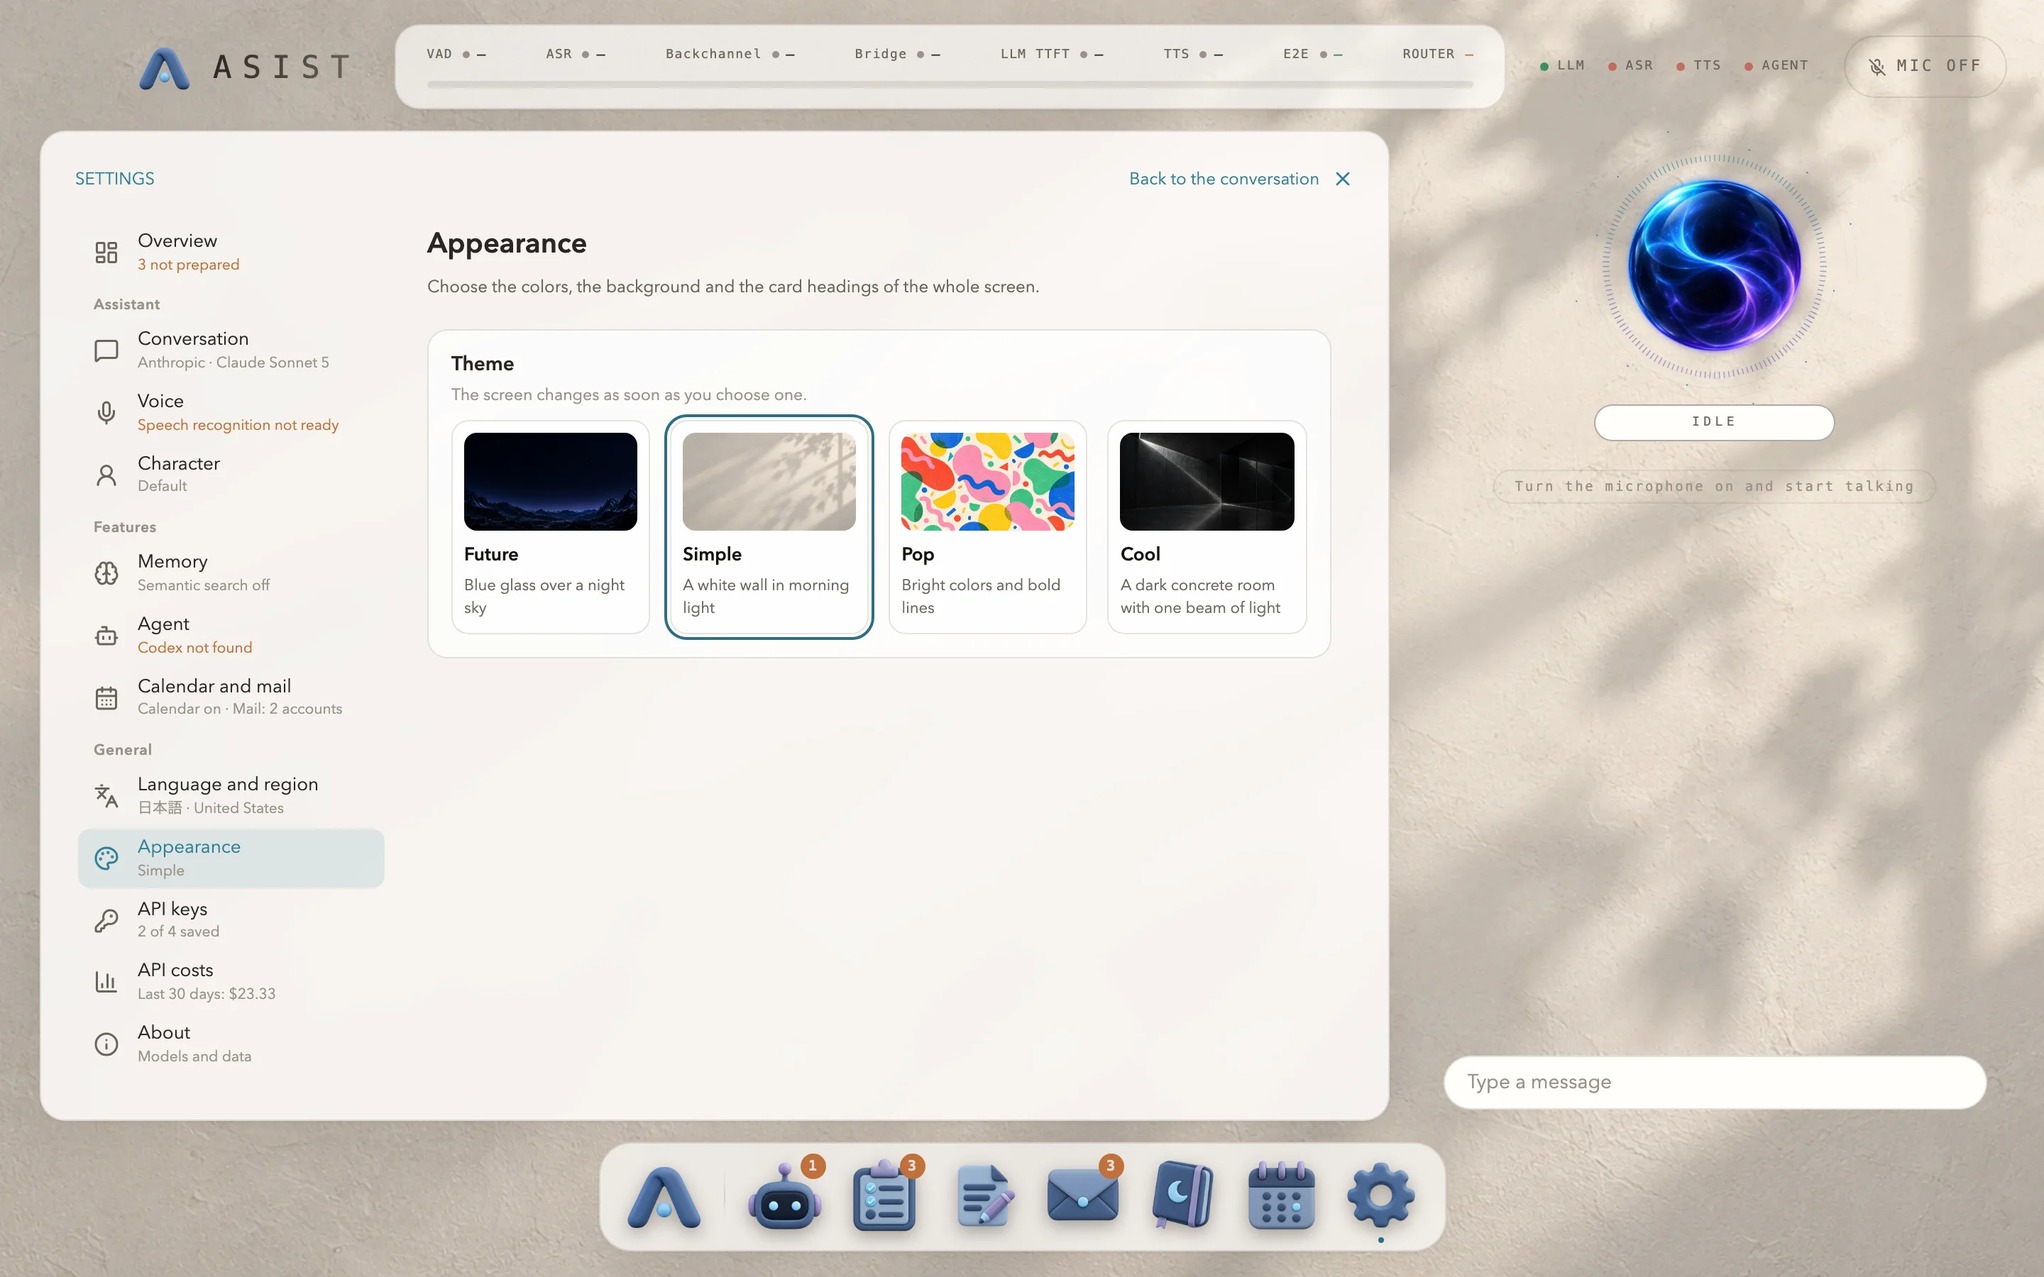
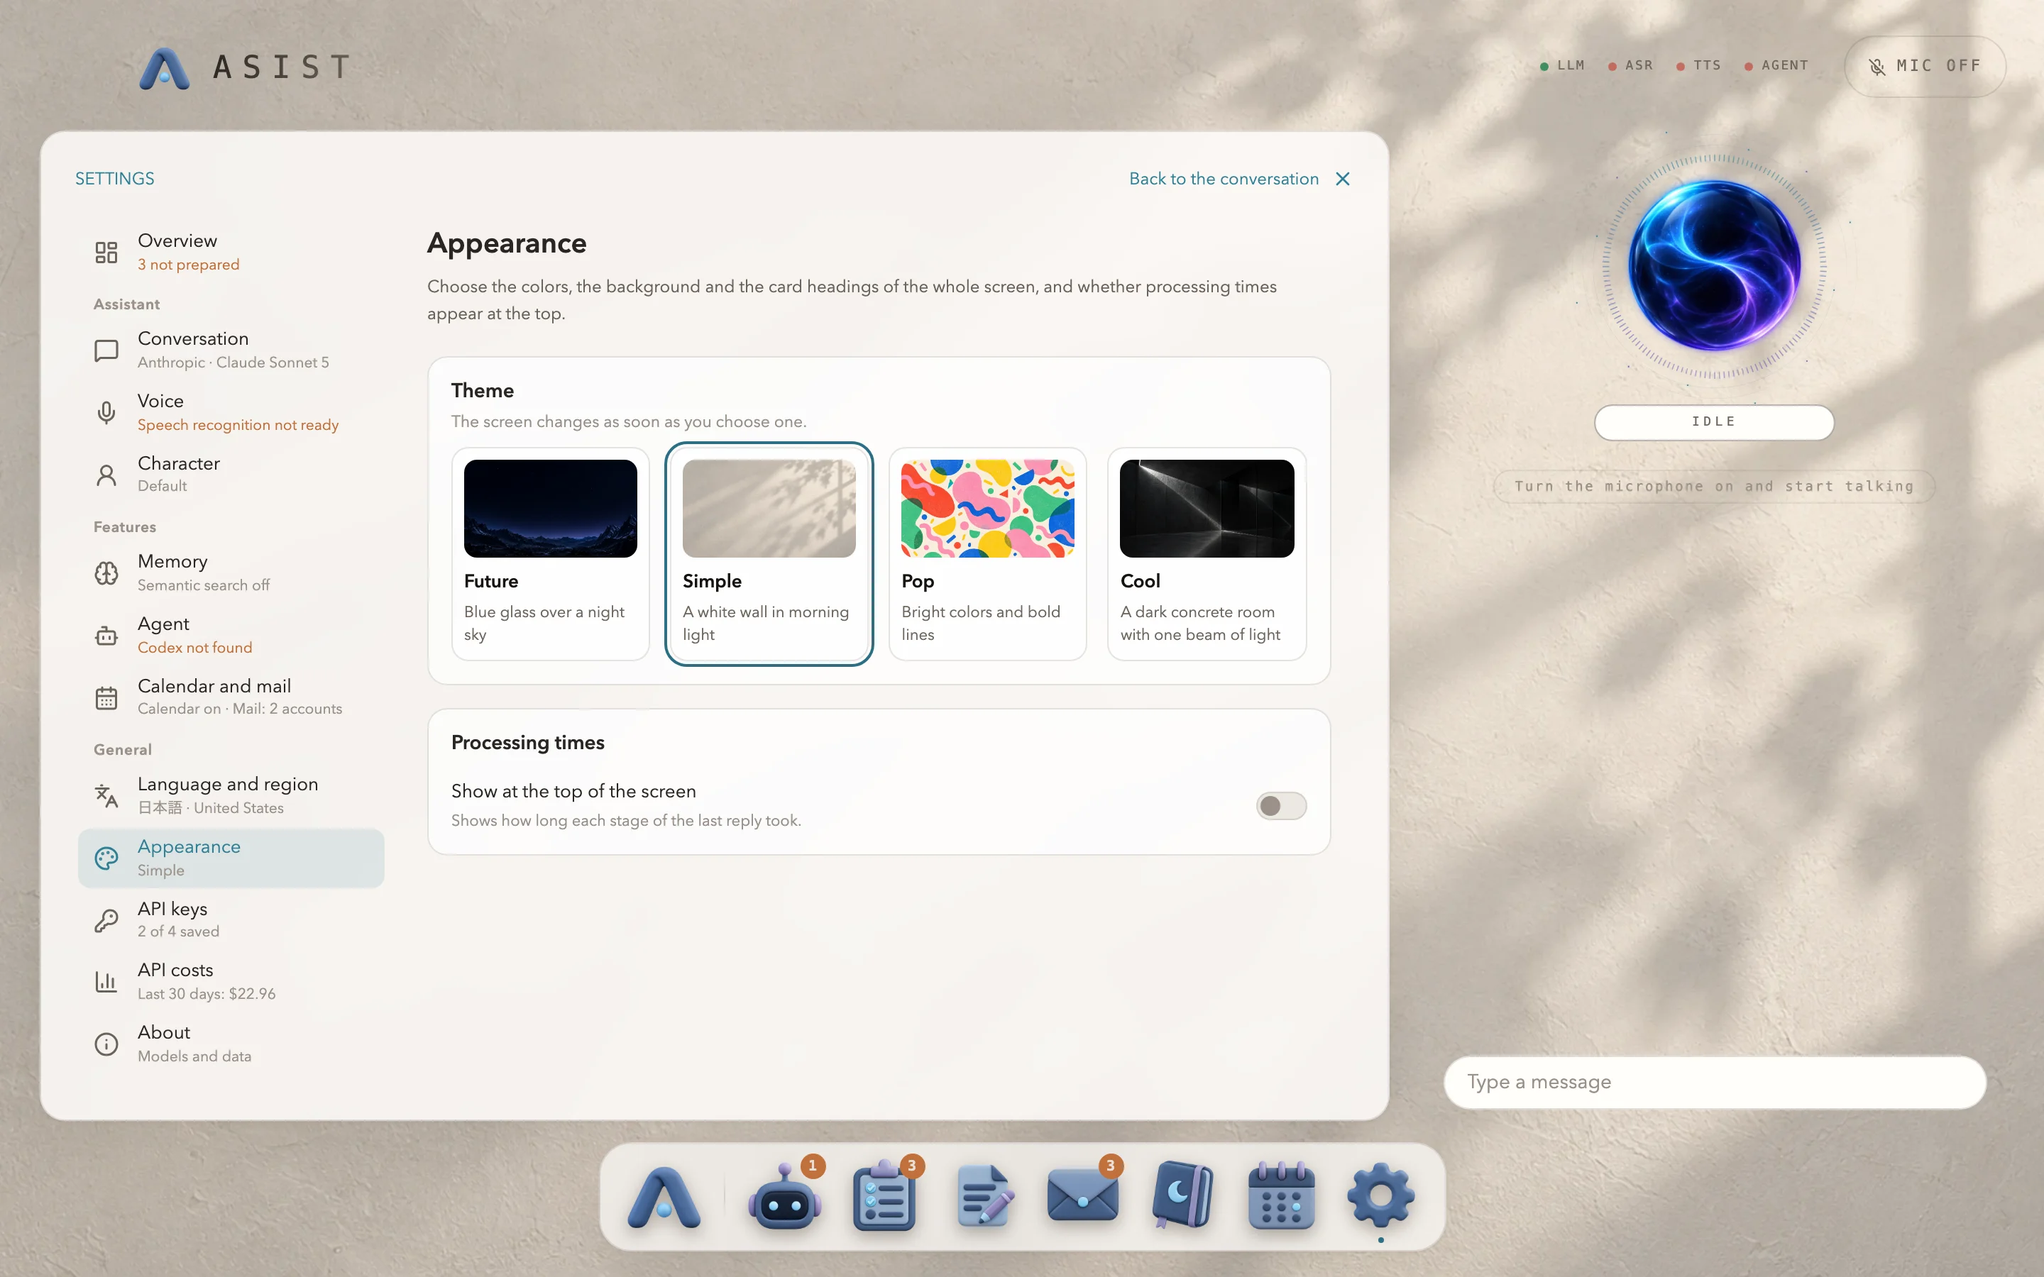
Hide the processing times at the top of the screen unless turned on under Appearance (#141)
The bar at the top that shows how long each stage of the last reply took (VAD, ASR, aizuchi, bridge, LLM TTFT, TTS, E2E and the router, or the connection, response, session and cost of a live engine) matters to someone tuning the conversation rather than to someone using it. It is now hidden unless "Show at the top of the screen" is turned on in the new "Processing times" group of the Appearance page.

The setting is stored as `showHud` in settings.json, which moves to version 7. The upgrade from version 6 hides the bar for everyone, including those who saw it until now, and a sample of version 7 joins `tests/fixtures/stored/`. When the bar is hidden its wrapper stays in the top bar, since it is what keeps the status dots and the microphone on the right.

The documentation of Appearance, the usage page and the voice engine page now say where the times are turned on, in Japanese and English, and the screenshots that show the top bar were taken again without it. The setup screenshots are clipped to the dialog and were left as they were.

## Checks

- `npm run typecheck`: no errors.
- `npm test`: 225 files and 2370 tests passed, 12 skipped. This includes opening `settings.v1.json` through `settings.v7.json` as version 7.
- `npm run i18n -- check`: every message has the eleven languages.
- `npm run demo:fit -- --screens`: everything fits in 44 combinations (4 themes × 11 languages, 38 screens).
[…]

diff --git a/src/shared/i18n/messages/settings-appearance.ts b/src/shared/i18n/messages/settings-appearance.ts
@@ -15,17 +15,17 @@ export const settingsAppearance = defineMessages({
     'es-ES': 'Apariencia'
   },
   lead: {
-    'ja-JP': '画面全体の色、背景、カードの見出しを選びます。',
-    'en-US': 'Choose the colors, the background and the card headings of the whole screen.',
-    'fr-FR': "Choisissez les couleurs, l'arrière-plan et les titres des cartes de tout l'écran.",
-    'de-DE': 'Wählen Sie Farben, Hintergrund und Kartenüberschriften für den ganzen Bildschirm.',
-    'hi-IN': 'पूरी स्क्रीन के रंग, बैकग्राउंड और कार्ड के शीर्षक चुनें।',
-    'id-ID': 'Pilih warna, latar belakang, dan judul kartu untuk seluruh layar.',
-    'it-IT': 'Scegli i colori, lo sfondo e i titoli delle schede di tutto lo schermo.',
-    'ko-KR': '화면 전체의 색, 배경, 카드 제목을 고릅니다.',
-    'pt-BR': 'Escolha as cores, o fundo e os títulos dos cartões de toda a tela.',
-    'es-419': 'Elige los colores, el fondo y los títulos de las tarjetas de toda la pantalla.',
-    'es-ES': 'Elige los colores, el fondo y los títulos de las tarjetas de toda la pantalla.'
+    'ja-JP': '画面全体の色、背景、カードの見出しと、上部に処理時間を出すかどうかを選びます。',
+    'en-US': 'Choose the colors, the background and the card headings of the whole screen, and whether processing times appear at the top.',
+    'fr-FR': "Choisissez les couleurs, l'arrière-plan et les titres des cartes de tout l'écran, et si les temps de traitement s'affichent en haut.",
+    'de-DE': 'Wählen Sie Farben, Hintergrund und Kartenüberschriften für den ganzen Bildschirm und ob oben die Verarbeitungszeiten erscheinen.',
+    'hi-IN': 'पूरी स्क्रीन के रंग, बैकग्राउंड और कार्ड के शीर्षक चुनें, और यह भी कि ऊपर प्रोसेसिंग का समय दिखे या नहीं।',
+    'id-ID': 'Pilih warna, latar belakang, dan judul kartu untuk seluruh layar, serta apakah waktu proses tampil di bagian atas.',
+    'it-IT': 'Scegli i colori, lo sfondo e i titoli delle schede di tutto lo schermo, e se in alto compaiono i tempi di elaborazione.',
+    'ko-KR': '화면 전체의 색, 배경, 카드 제목과, 위쪽에 처리 시간을 표시할지를 고릅니다.',
+    'pt-BR': 'Escolha as cores, o fundo e os títulos dos cartões de toda a tela, e se os tempos de processamento aparecem no topo.',
+    'es-419': 'Elige los colores, el fondo y los títulos de las tarjetas de toda la pantalla, y si arriba se muestran los tiempos de procesamiento.',
+    'es-ES': 'Elige los colores, el fondo y los títulos de las tarjetas de toda la pantalla, y si arriba se muestran los tiempos de procesamiento.'
   },
   theme: {
     title: {
@@ -167,6 +167,47 @@ export const settingsAppearance = defineMessages({
         'es-419': 'Una sala oscura de concreto con un rayo de luz',
         'es-ES': 'Una sala oscura de hormigón con un rayo de luz'
       }
+    }
+  },
+  hud: {
+    title: {
+      'ja-JP': '処理時間',
+      'en-US': 'Processing times',
+      'fr-FR': 'Temps de traitement',
+      'de-DE': 'Verarbeitungszeiten',
+      'hi-IN': 'प्रोसेसिंग का समय',
+      'id-ID': 'Waktu proses',
+      'it-IT': 'Tempi di elaborazione',
+      'ko-KR': '처리 시간',
+      'pt-BR': 'Tempos de processamento',
+      'es-419': 'Tiempos de procesamiento',
+      'es-ES': 'Tiempos de procesamiento'
+    },
+    show: {
+      'ja-JP': '画面の上に表示する',
+      'en-US': 'Show at the top of the screen',
+      'fr-FR': "Afficher en haut de l'écran",
+      'de-DE': 'Oben auf dem Bildschirm anzeigen',
+      'hi-IN': 'स्क्रीन के ऊपर दिखाएँ',
+      'id-ID': 'Tampilkan di bagian atas layar',
+      'it-IT': 'Mostra in cima allo schermo',
+      'ko-KR': '화면 위쪽에 표시하기',
+      'pt-BR': 'Mostrar no topo da tela',
+      'es-419': 'Mostrar en la parte superior de la pantalla',
+      'es-ES': 'Mostrar en la parte superior de la pantalla'
+    },
+    hint: {
+      'ja-JP': '直前の返事で、各段階にかかった時間を表示します。',
+      'en-US': 'Shows how long each stage of the last reply took.',
+      'fr-FR': 'Affiche la durée de chaque étape de la dernière réponse.',
+      'de-DE': 'Zeigt, wie lange jeder Schritt der letzten Antwort gedauert hat.',
+      'hi-IN': 'पिछले जवाब के हर चरण में लगा समय दिखाता है।',
+      'id-ID': 'Menampilkan waktu setiap tahap pada balasan terakhir.',
+      'it-IT': "Mostra quanto è durata ogni fase dell'ultima risposta.",
+      'ko-KR': '직전 답변의 단계별 소요 시간을 표시합니다.',
+      'pt-BR': 'Mostra quanto tempo levou cada etapa da última resposta.',
+      'es-419': 'Muestra cuánto tardó cada etapa de la última respuesta.',
+      'es-ES': 'Muestra cuánto ha tardado cada etapa de la última respuesta.'
     }
   }
 })

diff --git a/src/shared/settings.ts b/src/shared/settings.ts
@@ -38,6 +38,8 @@ const fields = {
   uiLocale: z.enum(UI_LOCALES),
   /** The look of the whole interface: its colours, surfaces, background picture and the type of card headings. */
   theme: z.enum(THEMES),
+  /** Whether the top of the screen shows how long each stage of the latest turn took. */
+  showHud: z.boolean(),
   /** The language the user and the assistant speak: prompts, speech recognition and speech follow it. */
   conversationLocale: z.enum(CONVERSATION_LOCALES),
   /** The ISO 3166-1 alpha-2 country whose weather, news, currency and formats apply. */
@@ -157,7 +159,7 @@ const V4_ASR_MODELS: Record<string, AsrModel> = {
 
 export const SETTINGS_FORMAT: StoredFormat<AppSettings> = {
   name: 'settings.json',
-  version: 6,
+  version: 7,
   upgrades: {
     // Version 2 adds the theme. Everything written before it was drawn in future.
     1: (content) => ({ ...(content as Record<string, unknown>), theme: 'future' }),
@@ -186,7 +188,11 @@ export const SETTINGS_FORMAT: StoredFormat<AppSettings> = {
     5: (content) => ({
       ...(content as Record<string, unknown>),
       calendar: { enabled: false, readCalendarIds: [], writeCalendarId: null }
-    })
+    }),
+    // Version 7 lets the times of a turn at the top of the screen be turned off. They matter to someone
+    // tuning the conversation rather than to someone using it, so they are hidden for everyone, including
+    // those who saw them until now.
+    6: (content) => ({ ...(content as Record<string, unknown>), showHud: false })
   },
   parse: parseAppSettings,
   serialize: (settings) => ({ ...settings })

diff --git a/src/renderer/src/ui/settings/pages/AppearancePage.tsx b/src/renderer/src/ui/settings/pages/AppearancePage.tsx
@@ -1,10 +1,11 @@
 import type { CSSProperties } from 'react'
 import { THEMES, type ThemeName } from '@shared/themes'
 import type { SettingsContext } from '../context'
-import { Group, Page } from '../primitives'
+import { Group, Page, Row } from '../primitives'
+import { HoloSwitch } from '@/components/ui/switch'
 import { useT } from '@/i18n'
 
-/** The appearance page: the theme of the whole interface, chosen from the pictures of the themes. */
+/** The appearance page: the theme of the whole interface, chosen from the pictures of the themes, and the processing times at the top. */
 export function AppearancePage({ ctx }: { ctx: SettingsContext }): React.JSX.Element {
   const { settings, set } = ctx
   const t = useT()
@@ -34,6 +35,11 @@ export function AppearancePage({ ctx }: { ctx: SettingsContext }): React.JSX.Ele
             </button>
           ))}
         </div>
+      </Group>
+      <Group title={t('settingsAppearance.hud.title')}>
+        <Row label={t('settingsAppearance.hud.show')} hint={t('settingsAppearance.hud.hint')}>
+          <HoloSwitch checked={settings.showHud} onCheckedChange={(v) => set({ showHud: v })} />
+        </Row>
       </Group>
     </Page>
   )

diff --git a/src/renderer/src/ui/TopBar.tsx b/src/renderer/src/ui/TopBar.tsx
@@ -23,6 +23,7 @@ export function TopBar(): React.JSX.Element {
   const micProgress = useTurnStore((s) => s.micProgress)
   const closeApp = useViewStore((s) => s.closeApp)
   const engine = useSettingsStore((s) => s.settings?.voiceEngine ?? 'cascade')
+  const showHud = useSettingsStore((s) => s.settings?.showHud === true)
   const liveConnection = useLiveStore((s) => s.connection)
 
   return (
@@ -32,9 +33,8 @@ export function TopBar(): React.JSX.Element {
         <span>ASIST</span>
       </button>
 
-      <div className="hud-wrap">
-        <Hud />
-      </div>
+      {/* The wrap stays when the bar is hidden, because it is what pushes the status dots and the microphone to the right. */}
+      <div className="hud-wrap">{showHud && <Hud />}</div>
 
       {status && (
         <div className="status-dots">

diff --git a/src/renderer/src/demo/api.ts b/src/renderer/src/demo/api.ts
@@ -114,6 +114,7 @@ const settings: AppSettings = {
   safetyNoticeVersion: 1,
   uiLocale: demoLocale,
   theme: THEMES.find((theme) => theme === requestedTheme) ?? DEFAULT_THEME,
+  showHud: false,
   // The conversation stays Japanese, which the sample data is written in; the region follows the interface so
   // that dates and numbers read as they do for someone who uses that language.
   conversationLocale: 'ja-JP',

diff --git a/src/main/services/settings.ts b/src/main/services/settings.ts
@@ -27,6 +27,7 @@ function defaultSettings(): AppSettings {
     safetyNoticeVersion: 0,
     uiLocale: locale,
     theme: DEFAULT_THEME,
+    showHud: false,
     conversationLocale: locale,
     region: defaultRegion(locale),
     // Choosing a provider during the first setup replaces these with that provider's defaults from

diff --git a/website/src/content/docs/en/docs/settings/voice-engine.md b/website/src/content/docs/en/docs/settings/voice-engine.md
@@ -16,7 +16,7 @@ When you choose GPT-Live or Gemini Live, the microphone audio goes straight to t
 | GPT-Live | GPT-Live handles the timing of the exchange and leaves the content to the conversation model. GPT-Live reads the conversation model's text aloud in its own voice. | $0.05 per minute that the session is open | OpenAI |
 | Gemini Live | Gemini decides by itself and calls ASIST's tools. ASIST runs the tools, so the confirmation screen for writes still appears. The conversation model is not used. | $0.005 per minute of audio input, $0.018 per minute of output | Google |
 
-A session opens when you start talking, and closes once the conversation has stopped for the time set in "Close the session after" (90 seconds by default). You aren't charged while it is closed. When you speak again, ASIST holds the last 3 seconds of audio while it reopens the session, so the start of what you say isn't lost. The HUD at the top shows the connection, the time to respond, the minutes in the session and the estimated cost. Turning the microphone off closes the session.
+A session opens when you start talking, and closes once the conversation has stopped for the time set in "Close the session after" (90 seconds by default). You aren't charged while it is closed. When you speak again, ASIST holds the last 3 seconds of audio while it reopens the session, so the start of what you say isn't lost. With "Show at the top of the screen" turned on in [Appearance](/en/docs/settings/appearance/), the top of the screen shows the connection, the time to respond, the minutes in the session and the estimated cost. Turning the microphone off closes the session.
 
 Choose a voice on the "Voice" page from the ones the provider offers, and use "Play sample" to hear a bundled sample. Playing a sample doesn't use the API.
 

diff --git a/website/src/content/docs/en/docs/settings/appearance.md b/website/src/content/docs/en/docs/settings/appearance.md
@@ -1,11 +1,17 @@
 ---
 title: Appearance
-description: Choose the theme of the whole screen.
+description: Choose the theme of the whole screen, and whether processing times appear at the top.
 sidebar:
   order: 2
 ---
 
-Under "Appearance", choose one of four themes for the whole screen. The theme changes as soon as you choose it, along with the colors, the background and the card headings.
+Under "Appearance", choose the theme of the whole screen, and whether processing times appear at the top of it.
+
+![The Appearance page in the settings](/screens/en/settings-appearance.webp)
+
+## Theme
+
+Choose one of four themes. The theme changes as soon as you choose it, along with the colors, the background and the card headings.
 
 | Theme | Look |
 |---|---|
@@ -16,4 +22,8 @@ Under "Appearance", choose one of four themes for the whole screen. The theme ch
 
 The pictures on the weather and clock cards stay night scenes in every theme.
 
-![The Appearance page in the settings](/screens/en/settings-appearance.webp)
+## Processing times
+
+Turn on "Show at the top of the screen" under "Processing times", and the top of the screen shows how long each stage of the last reply took. It is off by default.
+
+You can see how long speech recognition, generating the reply and reading it aloud took, and the time from the end of what you said to the first sound of the reply (E2E). When the voice engine is GPT-Live or Gemini Live, it shows the state of the connection, the time to respond, the minutes in the session and the estimated cost instead.

diff --git a/website/src/content/docs/docs/settings/appearance.md b/website/src/content/docs/docs/settings/appearance.md
@@ -1,11 +1,17 @@
 ---
 title: 見た目
-description: 画面全体のテーマを選ぶ。
+description: 画面全体のテーマと、処理時間を画面の上に出すかどうかを選ぶ。
 sidebar:
   order: 2
 ---
 
-「見た目」で、画面全体のテーマを 4 つから選びます。選ぶとすぐに切り替わり、色、背景、カードの見出しが変わります。
+「見た目」で、画面全体のテーマを選び、画面の上に処理時間を出すかどうかを決めます。
+
+![設定の「見た目」の画面](/screens/ja/settings-appearance.webp)
+
+## テーマ
+
+テーマは 4 つから選びます。選ぶとすぐに切り替わり、色、背景、カードの見出しが変わります。
 
 | テーマ | 見た目 |
 |---|---|
@@ -16,4 +22,8 @@ sidebar:
 
 天気と時計のカードの絵は、どのテーマでも夜の景色のままです。
 
-![設定の「見た目」の画面](/screens/ja/settings-appearance.webp)
+## 処理時間
+
+「処理時間」の「画面の上に表示する」をオンにすると、直前の返事で各段階にかかった時間が画面の上に出ます。最初はオフです。
+
+音声認識、返事の生成、読み上げにかかった時間と、話し終えてから返事の声が出るまでの時間(E2E)が分かります。声のエンジンが GPT-Live か Gemini Live のときは、接続の状態、応答までの時間、セッションの分数、料金の見積もりが出ます。

diff --git a/website/src/content/docs/en/docs/usage/index.md b/website/src/content/docs/en/docs/usage/index.md
@@ -30,4 +30,4 @@ You can also open a mini app from the conversation by asking, for example, "Open
 
 When you close the window, ASIST stays in the menu bar on a Mac, and in the notification area of the taskbar on Windows. You can bring it back from any app with ⌥Space on a Mac, and with Alt+Shift+Space on Windows. It also uses the system's notifications to tell you when a timer ends, a job finishes or new mail arrives.
 
-The HUD at the top shows how long speech recognition, generating the reply and reading it aloud took.
+To see how long speech recognition, generating the reply and reading it aloud took, turn on "Show at the top of the screen" in [Appearance](/en/docs/settings/appearance/) in the settings, and the times appear at the top of the screen.

diff --git a/website/src/content/docs/docs/usage/index.md b/website/src/content/docs/docs/usage/index.md
@@ -30,4 +30,4 @@ sidebar:
 
 ウィンドウを閉じても、Mac ではメニューバーに、Windows ではタスクバーの通知領域に残ります。ほかのアプリを使っているときも、Mac では ⌥Space で、Windows では Alt+Shift+Space で呼び出せます。タイマーの終了、ジョブの完了、新着のメールは、OS の通知でも知らせます。
 
-音声認識、返事の生成、読み上げにかかった時間は、上の HUD で見られます。
+音声認識、返事の生成、読み上げにかかった時間は、設定の[見た目](/docs/settings/appearance/)で「画面の上に表示する」をオンにすると、画面の上で見られます。
